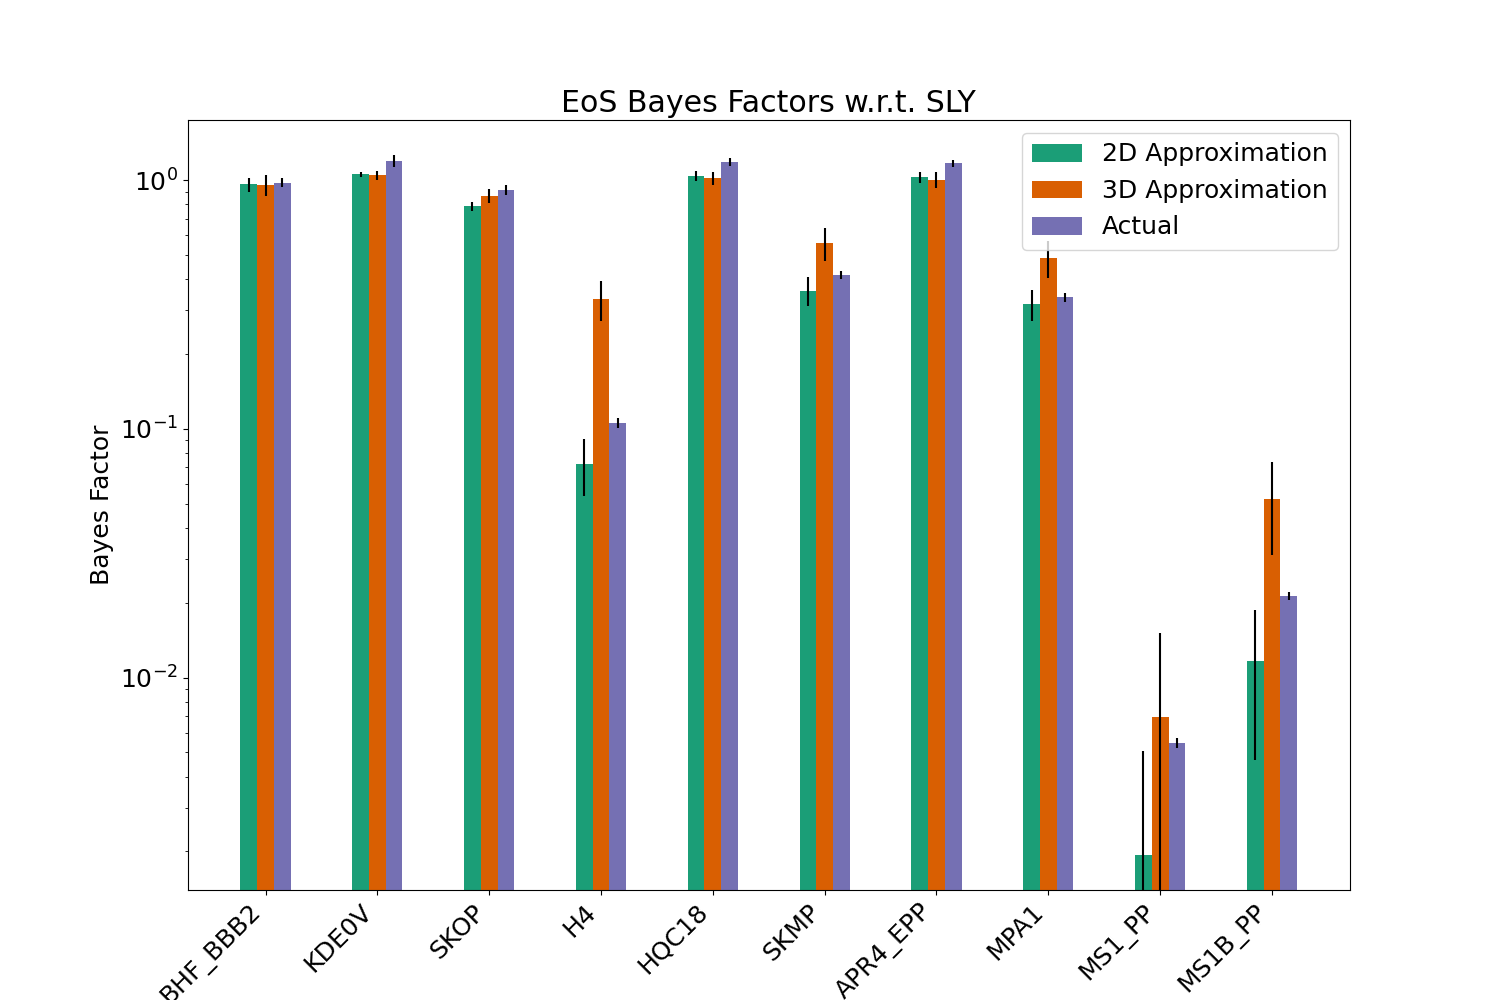
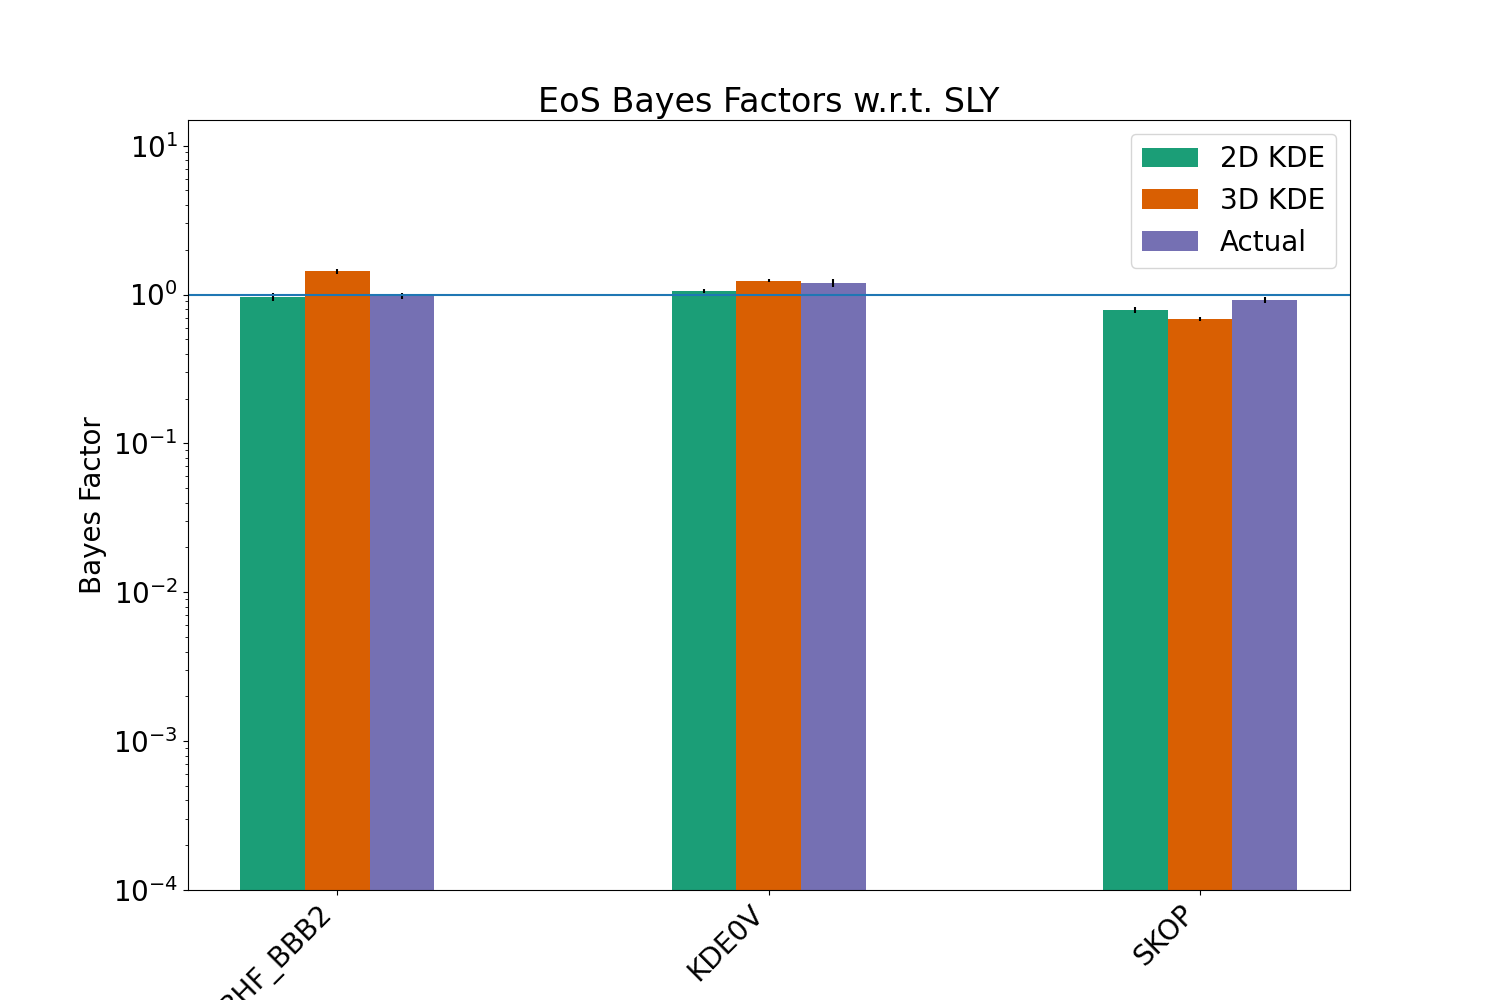
Produced actual 2D 3D comparison BF plot!

diff --git a/year2/PhenomTaylorCompare/LSAMP2023_2D_3D_poster_BF.py b/year2/PhenomTaylorCompare/LSAMP2023_2D_3D_poster_BF.py
@@ -1,0 +1,107 @@
+from GWXtreme import eos_model_selection as ems
+import numpy as np
+import matplotlib.pyplot as plt
+import json
+import glob
+import h5py
+import convertlambdas
+
+# Collected these useful functions and altered them slightly for the LSAMP poster.
+# Thought we'd use the 2D 3D study, but that still need some more time in the oven.
+# Still though, might find a plotting alteration useful from here.
+
+def uniform_LTs_Ls_GW170817_data():
+    # Uses uP(LTs) produced GW170817 (L~,q) posterior, turns it into a (L1,L2,q) 
+    # posterior. That way we have the required posteriors to code around of, and
+    # make the 2D/3D kde code that will use the legit uP(LTs) and uP(Ls) posteriors.
+
+    # This is wrong to reiterate. We just did it to test our code's logic. 
+    # We NEED the real uP(Ls) GW170817 posterior to proceed!
+
+    Dir = "../bilby_runs/3dkde_studies/outdir/real"
+
+    _data = np.recfromtxt("../compare_GWXtreme/posterior_samples/posterior_samples_narrow_spin_prior.dat",names=True)
+    (q,mc,LambdaT)=(np.array(_data['q']),np.array(_data['mc_source']),
+                    np.array(_data['lambdat']))
+    m1, m2 = ems.getMasses(q, mc)
+    sm = (m1*m2)/((m1+m2)**2)
+    DLambdaT = np.array(_data['dlambdat'])
+
+    converter = convertlambdas.LambdasInversion(sm,LambdaT,DLambdaT)
+    Lambda1, Lambda2 = converter.solve_system()
+
+    LTs_dict = {'posterior':{'content':{'m1_source':m1.tolist(),'m2_source':m2.tolist(),'mass_ratio':q.tolist(),'chirp_mass':mc.tolist(),'delta_lambda_tilde':DLambdaT.tolist(),'lambda_tilde':LambdaT.tolist()}}}
+    fname = Dir+"/uniformP_LTs/GW170817/data.json"
+    with open(fname,"w") as f:
+        json.dump(LTs_dict,f,indent=2,sort_keys=True)
+
+    Ls_dict = {'posterior':{'content':{'m1_source':m1.tolist(),'m2_source':m2.tolist(),'mass_ratio':q.tolist(),'chirp_mass':mc.tolist(),'lambda_1':Lambda1,'lambda_2':Lambda2,'delta_lambda_tilde':DLambdaT.tolist(),'lambda_tilde':LambdaT.tolist()}}}
+    fname = Dir+"/uniformP_Ls/GW170817/data.json"
+    with open(fname,"w") as f:
+        json.dump(Ls_dict,f,indent=2,sort_keys=True)
+
+def singleEventBFs():
+    # Plots barplot of BFs using GW170817's uP(LTs) posterior and
+    #                                       uP(Ls) posterior (with errorbars)!
+
+    uLTs_File = "/home/michael/projects/eos/GWXtreme_Tasks/year2/bilby_runs/simulations/outdir/real/uniformP_LTs/GW170817/data.json" 
+    uLs_File = "/home/michael/projects/eos/GWXtreme_Tasks/year2/bilby_runs/simulations/GW170817_prior_L1L2/outdir/GW170817_result.json"
+
+    modsel_uLTs = ems.Model_selection(uLTs_File,Ns=4000,kdedim=2)
+    modsel_uLs = ems.Model_selection(uLs_File,Ns=4000,kdedim=3)
+
+    labels = ["2D KDE", "3D KDE","Actual"]
+    colors = ["#1b9e77","#d95f02","#7570b3"]
+    methods = [modsel_uLTs, modsel_uLs]
+    #eosList = ["BHF_BBB2","KDE0V","SKOP","H4","HQC18","SKMP","APR4_EPP","MPA1","MS1_PP","MS1B_PP"]
+    eosList = ["BHF_BBB2","KDE0V","SKOP"]
+    
+    with open("/home/michael/projects/eos/GWXtreme_Tasks/year2/bilby_runs/simulations/outdir/nested_sampling_results.json","r") as f:
+        nestSamp = json.load(f)
+    nest_BFs = []
+    nest_stds = []
+    for eos in eosList:
+        nest_BFs.append(nestSamp[eos][0])
+        nest_stds.append(nestSamp[eos][1])
+
+    methods_BFs = []
+    methods_uncerts = []
+    for method in methods:
+        print(method)
+        BFs = []
+        uncerts = []
+        for eos in eosList:
+            print(eos)
+            bf, bf_trials = method.computeEvidenceRatio(EoS1=eos,EoS2="SLY",trials=100)
+            #bf = method.computeEvidenceRatio(EoS1=eos,EoS2="SLY",trials=0)
+            uncert = np.std(bf_trials) * 2
+            BFs.append(bf)
+            uncerts.append(uncert)
+        methods_BFs.append(BFs)
+        methods_uncerts.append(uncerts)
+
+    x_axis = np.arange(len(eosList))
+    plt.clf()
+    spacing = [-.15,0,.15]
+    plt.rcParams.update({"font.size":20})
+    plt.figure(figsize=(15, 10))
+    for index in range(len(methods)):
+        plt.bar(x_axis+spacing[index],methods_BFs[index],.15,yerr=methods_uncerts[index],label=labels[index],color=colors[index])
+        #plt.bar(x_axis+spacing[index],methods_BFs[index],.15,label=labels[index],color=colors[index])
+    
+    plt.bar(x_axis+spacing[2],nest_BFs,.15,yerr=nest_stds,label=labels[2],color=colors[2])
+
+    plt.yscale("log")
+    plt.xticks(x_axis,eosList,rotation=45,ha="right")
+    plt.ylim(1.0e-4,(max(BFs)+max(uncerts))*10.)
+    plt.axhline(1.)
+    plt.title("EoS Bayes Factors w.r.t. SLY")
+    plt.ylabel("Bayes Factor")
+    plt.legend()
+    label = "GW170817"
+    plt.savefig("plots/2D_3D/{}_barplot_2D_3D_BFs.png".format(label))
+
+    Dictionary = {labels[Index]:{eosList[eIndex]:[methods_BFs[Index][eIndex],methods_uncerts[Index][eIndex]] for eIndex in range(len(eosList))} for Index in range(len(methods))}
+    with open("plots/2D_3D/data/{}_2D_3D_BFs.json".format(label),"w") as f:
+        json.dump(Dictionary, f, indent=2, sort_keys=True)
+
